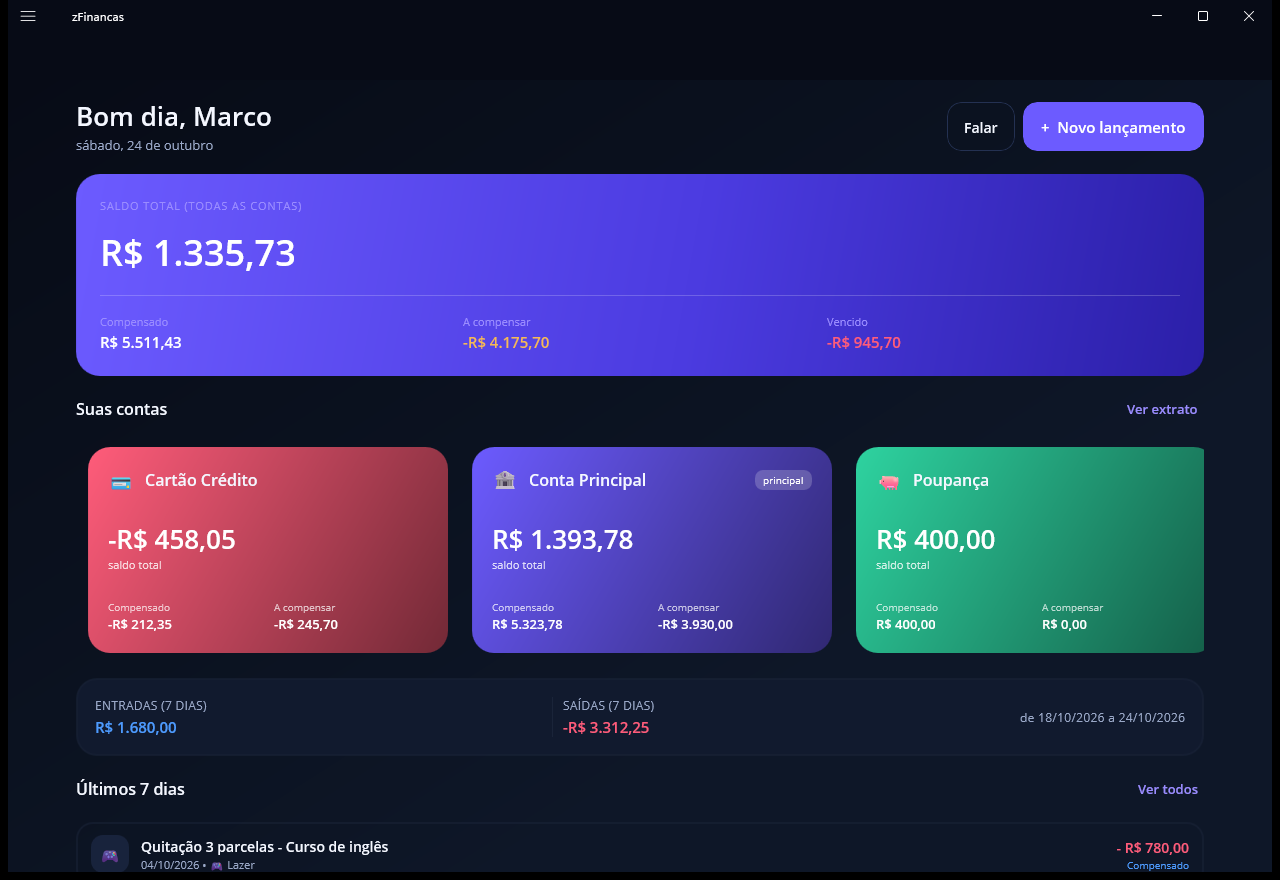
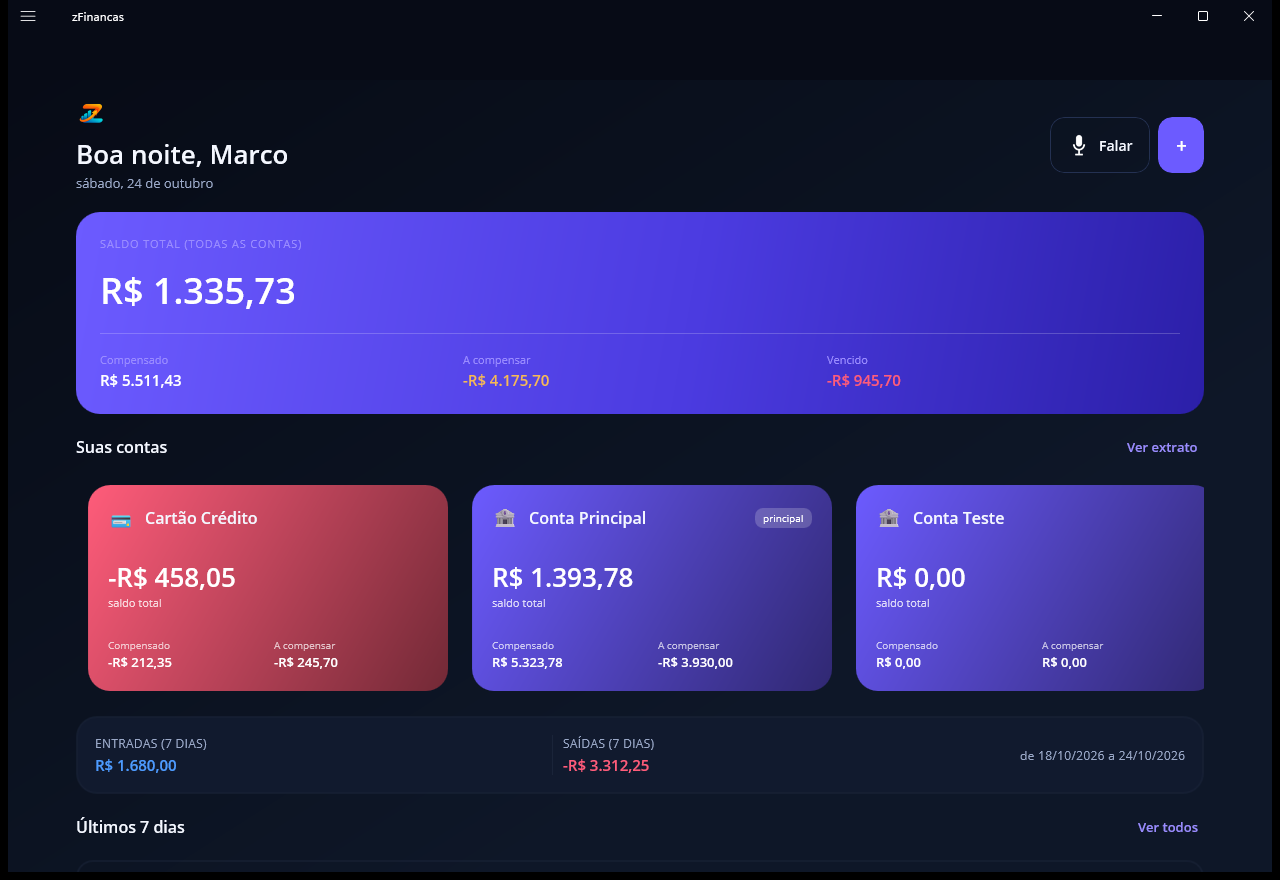
Identidade visual: icone, splash, abertura animada e marca no app
- icone do app e foreground (adaptive) gerados a partir da arte nova, fundo #0B1020
- splash do sistema em PNG com a arte do simbolo
- AberturaPage: abertura animada (fade + escala, halo, spinner) com tempo minimo de
  1.6s e preparo do banco em paralelo; nunca trava (fallback para o login)
- logotipo claro (texto remapeado para #F4F7FF) usado no login e na abertura, porque o
  texto original e azul-marinho e sumia no tema escuro
- simbolo no cabecalho do dashboard
- README com a marca no topo e secao de identidade visual

Changed region(s): [[0.0625, 0.2761, 0.9375, 1.0], [0.0625, 0.092, 0.9375, 0.2455], [0.875, 0.8898, 0.9375, 1.0]]

diff --git a/src/zFinancas.App/Pages/AberturaPage.xaml b/src/zFinancas.App/Pages/AberturaPage.xaml
@@ -1,0 +1,56 @@
+<?xml version="1.0" encoding="utf-8" ?>
+<ContentPage xmlns="http://schemas.microsoft.com/dotnet/2021/maui"
+             xmlns:x="http://schemas.microsoft.com/winfx/2009/xaml"
+             x:Class="zFinancas.App.Pages.AberturaPage"
+             BackgroundColor="{StaticResource Fundo}"
+             NavigationPage.HasNavigationBar="False">
+
+    <Grid>
+        <!-- halo suave atrás da marca -->
+        <Border WidthRequest="360"
+                HeightRequest="360"
+                HorizontalOptions="Center"
+                VerticalOptions="Center"
+                StrokeThickness="0"
+                Opacity="0.16"
+                BackgroundColor="{StaticResource Primaria}"
+                StrokeShape="RoundRectangle 360">
+            <Border.Shadow>
+                <Shadow Brush="{StaticResource Primaria}" Opacity="0.6" Radius="60" />
+            </Border.Shadow>
+        </Border>
+
+        <VerticalStackLayout x:Name="Marca"
+                             Spacing="22"
+                             Opacity="0"
+                             Scale="0.86"
+                             HorizontalOptions="Center"
+                             VerticalOptions="Center">
+
+            <Image Source="simbolo.png"
+                   WidthRequest="128"
+                   HeightRequest="128"
+                   Aspect="AspectFit"
+                   HorizontalOptions="Center" />
+
+            <Image Source="logotipoclaro.png"
+                   HeightRequest="40"
+                   Aspect="AspectFit"
+                   HorizontalOptions="Center" />
+
+            <ActivityIndicator IsRunning="True"
+                               Color="{StaticResource PrimariaClara}"
+                               HeightRequest="20"
+                               Margin="0,6,0,0" />
+        </VerticalStackLayout>
+
+        <Label x:Name="Rodape"
+               Text="Seu controle financeiro, 100% offline"
+               Style="{StaticResource Subtitulo}"
+               FontSize="11"
+               Opacity="0"
+               HorizontalOptions="Center"
+               VerticalOptions="End"
+               Margin="0,0,0,36" />
+    </Grid>
+</ContentPage>

diff --git a/src/zFinancas.App/Pages/LoginPage.xaml b/src/zFinancas.App/Pages/LoginPage.xaml
@@ -28,23 +28,16 @@
                                      VerticalOptions="Center">
 
                     <!-- marca -->
-                    <Border WidthRequest="72"
-                            HeightRequest="72"
-                            HorizontalOptions="Center"
-                            StrokeThickness="0"
-                            Background="{StaticResource GradienteHero}"
-                            StrokeShape="RoundRectangle 22">
-                        <Label Text="zF"
-                               FontFamily="OpenSansSemibold"
-                               FontSize="24"
-                               HorizontalOptions="Center"
-                               VerticalOptions="Center" />
-                    </Border>
+                    <Image Source="simbolo.png"
+                           WidthRequest="104"
+                           HeightRequest="104"
+                           Aspect="AspectFit"
+                           HorizontalOptions="Center" />
 
                     <VerticalStackLayout Spacing="6">
-                        <Label Text="zFinancas"
-                               FontFamily="OpenSansSemibold"
-                               FontSize="30"
+                        <Image Source="logotipoclaro.png"
+                               HeightRequest="36"
+                               Aspect="AspectFit"
                                HorizontalOptions="Center" />
                         <Label Text="{Binding Subtitulo}"
                                Style="{StaticResource Subtitulo}"

diff --git a/src/zFinancas.App/Pages/DashboardPage.xaml b/src/zFinancas.App/Pages/DashboardPage.xaml
@@ -13,6 +13,11 @@
             <!-- ============================ cabeçalho -->
             <Grid ColumnDefinitions="*,Auto" ColumnSpacing="12">
                 <VerticalStackLayout Spacing="2">
+                    <Image Source="simbolo.png"
+                           HeightRequest="30"
+                           Aspect="AspectFit"
+                           HorizontalOptions="Start"
+                           Margin="0,0,0,6" />
                     <Label Text="{Binding Saudacao}" Style="{StaticResource TituloPagina}" />
                     <Label Text="{Binding DataTexto}" Style="{StaticResource Subtitulo}" />
                 </VerticalStackLayout>

diff --git a/src/zFinancas.App/Pages/AberturaPage.xaml.cs b/src/zFinancas.App/Pages/AberturaPage.xaml.cs
@@ -1,0 +1,74 @@
+using System.Diagnostics;
+using zFinancas.App.Servicos;
+
+namespace zFinancas.App.Pages;
+
+/// <summary>
+/// Abertura animada: mostra o símbolo e a marca surgindo (fade + escala) enquanto o banco
+/// é preparado, e então segue para a tela de entrada.
+/// <para>
+/// A splash do sistema é estática (limitação das plataformas); a animação acontece aqui,
+/// nos primeiros instantes do app, com o mesmo fundo, então não há “salto” visual.
+/// </para>
+/// </summary>
+public partial class AberturaPage : ContentPage
+{
+    /// <summary>Tempo mínimo na tela — sem isso, num aparelho rápido a abertura só pisca.</summary>
+    private static readonly TimeSpan TempoMinimo = TimeSpan.FromMilliseconds(1650);
+
+    private bool _iniciado;
+
+    public AberturaPage()
+    {
+        InitializeComponent();
+        NavigationPage.SetHasNavigationBar(this, false);
+    }
+
+    protected override async void OnAppearing()
+    {
+        base.OnAppearing();
+
+        if (_iniciado)
+        {
+            return;
+        }
+
+        _iniciado = true;
+
+        var cronometro = Stopwatch.StartNew();
+
+        try
+        {
+            var servicos = ServicosApp.Obter<ServicoInicializacao>();
+
+            // Banco sendo preparado em paralelo com a animação.
+            var preparo = servicos.GarantirProntoAsync();
+
+            Marca.Opacity = 0;
+            Marca.Scale = 0.86;
+
+            await Task.WhenAll(
+                Marca.FadeTo(1, 520, Easing.CubicOut),
+                Marca.ScaleTo(1, 620, Easing.SpringOut));
+
+            await Rodape.FadeTo(1, 380, Easing.CubicOut);
+
+            await Task.WhenAny(preparo, Task.Delay(900));
+
+            var restante = TempoMinimo - cronometro.Elapsed;
+            if (restante > TimeSpan.Zero)
+            {
+                await Task.Delay(restante);
+            }
+
+            await ServicosApp.Obter<ServicoNavegacao>().AbrirLoginAsync();
+        }
+        catch (Exception ex)
+        {
+            RegistroDeFalhas.Registrar(ex, "Abertura");
+
+            // Nunca trava na abertura: segue para o login.
+            await ServicosApp.Obter<ServicoNavegacao>().AbrirLoginAsync();
+        }
+    }
+}

diff --git a/src/zFinancas.App/Servicos/ServicoNavegacao.cs b/src/zFinancas.App/Servicos/ServicoNavegacao.cs
@@ -38,6 +38,19 @@ public sealed class ServicoNavegacao
         return Task.CompletedTask;
     }
 
+    /// <summary>Casca inicial: abertura animada (sem barra de navegação).</summary>
+    public static Page CriarCascaDeAbertura()
+    {
+        var abertura = new Pages.AberturaPage();
+        NavigationPage.SetHasNavigationBar(abertura, false);
+
+        return new NavigationPage(abertura)
+        {
+            BarBackgroundColor = Paleta.Fundo,
+            BarTextColor = Paleta.Texto
+        };
+    }
+
     /// <summary>Casca inicial: apenas navegacao de entrada (sem menu lateral).</summary>
     public static Page CriarCascaDeEntrada()
     {

diff --git a/src/zFinancas.App/App.xaml.cs b/src/zFinancas.App/App.xaml.cs
@@ -13,7 +13,7 @@ public partial class App : Application
 
     protected override Window CreateWindow(IActivationState? activationState)
     {
-        var janela = new Window(Servicos.ServicoNavegacao.CriarCascaDeEntrada())
+        var janela = new Window(Servicos.ServicoNavegacao.CriarCascaDeAbertura())
         {
             Title = "zFinancas"
         };

diff --git a/README.md b/README.md
@@ -1,10 +1,30 @@
 # zFinancas
 
+<p align="center">
+  <img src="src/zFinancas.App/Resources/Images/logotipoclaro.png" alt="zFinancas" height="84" />
+</p>
+
 Controle financeiro pessoal **offline** em **.NET MAUI** para **Windows** e **Android**.
 Domínio testável, SQLite local e sincronização por arquivo entre PC e celular — sem nuvem,
 sem telemetria e sem depender de internet.
 
 ![Dashboard do zFinancas](docs/imagens/dashboard.png)
+
+
+## Identidade visual
+
+| Peça | Onde | Arquivo |
+| --- | --- | --- |
+| Ícone do app | launcher Android / atalho Windows | `Resources/AppIcon/appicon.png` (+ `appiconfg.png`) |
+| Splash do sistema | abertura fria | `Resources/Splash/splash.png` (fundo `#0B1020`) |
+| Abertura animada | primeiros 1,6 s (fade + escala) | `Pages/AberturaPage` + `simbolo.png` |
+| Logotipo claro | login e abertura | `Resources/Images/logotipoclaro.png` |
+| Símbolo | cabeçalho do dashboard | `Resources/Images/simbolo.png` |
+
+A versão clara do logotipo existe porque o texto original é azul-marinho e desaparece no
+tema escuro: os pixels escuros foram remapeados para `#F4F7FF`, mantendo o símbolo colorido.
+
+![Abertura](docs/imagens/abertura.png)
 
 ## O que já está pronto
 
